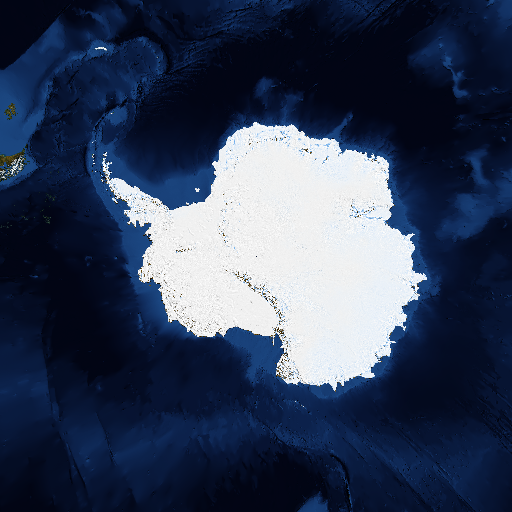
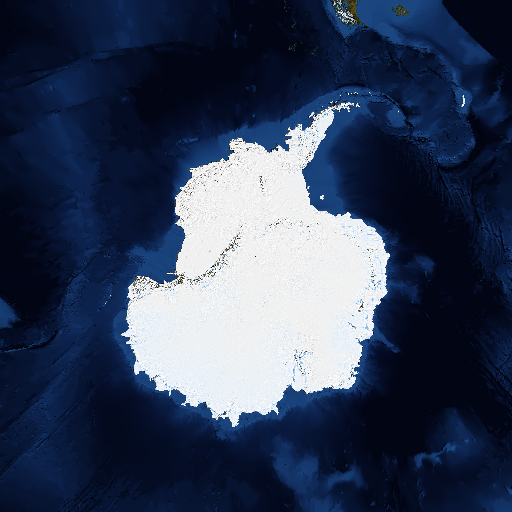
Cubesphere faces added just need to perform the spherical transformations

diff --git a/source/Planet.cpp b/source/Planet.cpp
@@ -16,15 +16,14 @@ Planet::Planet(IrrlichtDevice* Device, const stringw Name, const io::path &Textu
 
 	m_pName 			= Name;
 
-	IMeshSceneNode* ref	= m_pSMgr->addSphereSceneNode(Radius, 160, 0, -1, vector3df(0, 0, 0), vector3df(0, 0, 0));
-	ref->setMaterialFlag(video::EMF_LIGHTING, false);
-	ref->setMaterialTexture(0, m_pDriver->getTexture("../assets/earth.jpg"));
+	// IMeshSceneNode* ref	= m_pSMgr->addSphereSceneNode(Radius, 160, 0, -1, vector3df(0, 0, 0), vector3df(0, 0, 0));
+	// ref->setMaterialFlag(video::EMF_LIGHTING, false);
+	// ref->setMaterialTexture(0, m_pDriver->getTexture("../assets/earth.jpg"));
 
 	// m_pSceneNode		= m_pSMgr->addOctreeSceneNode(createPlanetMesh(Radius));
 	m_pSceneNode		= m_pSMgr->addMeshSceneNode(createPlanetMesh(Radius));
 
 	m_pSceneNode->setMaterialFlag(video::EMF_LIGHTING, false);
-	m_pSceneNode->setMaterialTexture(0, m_pDriver->getTexture("../assets/cubemap/earth/left.png"));
 }
 
 Planet::~Planet()
@@ -37,10 +36,12 @@ SMeshBuffer* Planet::createPlanetQLSCFaceMeshBuffer(const f32 Radius, const vect
 	const f32 range 	= circ / 4;
 
 	const u32 polyCount = 90;
+	const vector3df rot = Direction.getHorizontalAngle();
 
 	SMeshBuffer* buffer = new SMeshBuffer();
 	S3DVertex vtx;
 	vtx.Color.set(255, 255, 255, 255);
+
 
 	// Create the vertices
 	for (u32 xx = 0; xx < polyCount; ++xx)
@@ -48,13 +49,17 @@ SMeshBuffer* Planet::createPlanetQLSCFaceMeshBuffer(const f32 Radius, const vect
 		for (u32 yy = 0; yy < polyCount; ++yy)
 		{
 			vector3df v = vector3df(
-				(f32)xx / (f32)polyCount * Radius * 2 - Radius,
-				(f32)yy / (f32)polyCount * Radius * 2 - Radius,
+				(f32)xx / ((f32)polyCount - 1.0) * Radius * 2 - Radius,
+				(f32)yy / ((f32)polyCount - 1.0) * Radius * 2 - Radius,
 				-Radius);
+
+			v.rotateYZBy(rot.X);
+			v.rotateXZBy(rot.Y);
+			v.rotateXYBy(rot.Z);
 
 			vtx.Pos.set(v.X, v.Y, v.Z);
 
-			vtx.TCoords.set((f32)xx / (f32)polyCount, (f32)yy / (f32)polyCount);
+			vtx.TCoords.set((f32)xx / ((f32)polyCount - 1), (f32)yy / ((f32)polyCount - 1));
 			buffer->Vertices.push_back(vtx);
 		}
 	}
@@ -76,8 +81,6 @@ SMeshBuffer* Planet::createPlanetQLSCFaceMeshBuffer(const f32 Radius, const vect
 		}
 	}
 
-	// Recalculate Normals
-	
 	buffer->recalculateBoundingBox();
 	buffer->setHardwareMappingHint(EHM_STATIC);
 
@@ -90,28 +93,34 @@ IMesh* Planet::createPlanetMesh(const f32 Radius)
 	SMeshBuffer* face 	= 0;
 
 	face = createPlanetQLSCFaceMeshBuffer(Radius, vector3df(1, 0, 0));
+	face->Material.setTexture(0, m_pDriver->getTexture("../assets/cubemap/earth/front.png"));
 	mesh->addMeshBuffer(face);
 	face->drop();
 
 	face = createPlanetQLSCFaceMeshBuffer(Radius, vector3df(0, 1, 0));
+	face->Material.setTexture(0, m_pDriver->getTexture("../assets/cubemap/earth/top.png"));
 	mesh->addMeshBuffer(face);
 	face->drop();
 
-	// face = createPlanetQLSCFaceMeshBuffer(Radius, vector3df(0, 0, 1));
-	// mesh->addMeshBuffer(face);
-	// face->drop();
+	face = createPlanetQLSCFaceMeshBuffer(Radius, vector3df(0, 0, 1));
+	face->Material.setTexture(0, m_pDriver->getTexture("../assets/cubemap/earth/left.png"));
+	mesh->addMeshBuffer(face);
+	face->drop();
 
-	// face = createPlanetQLSCFaceMeshBuffer(Radius, vector3df(-1, 0, 0));
-	// mesh->addMeshBuffer(face);
-	// face->drop();
+	face = createPlanetQLSCFaceMeshBuffer(Radius, vector3df(-1, 0, 0));
+	face->Material.setTexture(0, m_pDriver->getTexture("../assets/cubemap/earth/back.png"));
+	mesh->addMeshBuffer(face);
+	face->drop();
 
-	// face = createPlanetQLSCFaceMeshBuffer(Radius, vector3df(0, -1, 0));
-	// mesh->addMeshBuffer(face);
-	// face->drop();
+	face = createPlanetQLSCFaceMeshBuffer(Radius, vector3df(0, -1, 0));
+	face->Material.setTexture(0, m_pDriver->getTexture("../assets/cubemap/earth/bottom.png"));
+	mesh->addMeshBuffer(face);
+	face->drop();
 
-	// face = createPlanetQLSCFaceMeshBuffer(Radius, vector3df(0, 0, -1));
-	// mesh->addMeshBuffer(face);
-	// face->drop();
+	face = createPlanetQLSCFaceMeshBuffer(Radius, vector3df(0, 0, -1));
+	face->Material.setTexture(0, m_pDriver->getTexture("../assets/cubemap/earth/right.png"));
+	mesh->addMeshBuffer(face);
+	face->drop();
 
 	mesh->recalculateBoundingBox();
 

diff --git a/include/Planet.hpp b/include/Planet.hpp
@@ -31,8 +31,8 @@ public:
 	void showVelocity(const bool State);
 
 private:
-	static SMeshBuffer* createPlanetQLSCFaceMeshBuffer(const f32 Radius, const vector3df Direction);
-	static IMesh* createPlanetMesh(const f32 Radius);
+	SMeshBuffer* createPlanetQLSCFaceMeshBuffer(const f32 Radius, const vector3df Direction);
+	IMesh* createPlanetMesh(const f32 Radius);
 
 	IrrlichtDevice*			m_pDevice;
 	ISceneManager*			m_pSMgr;
